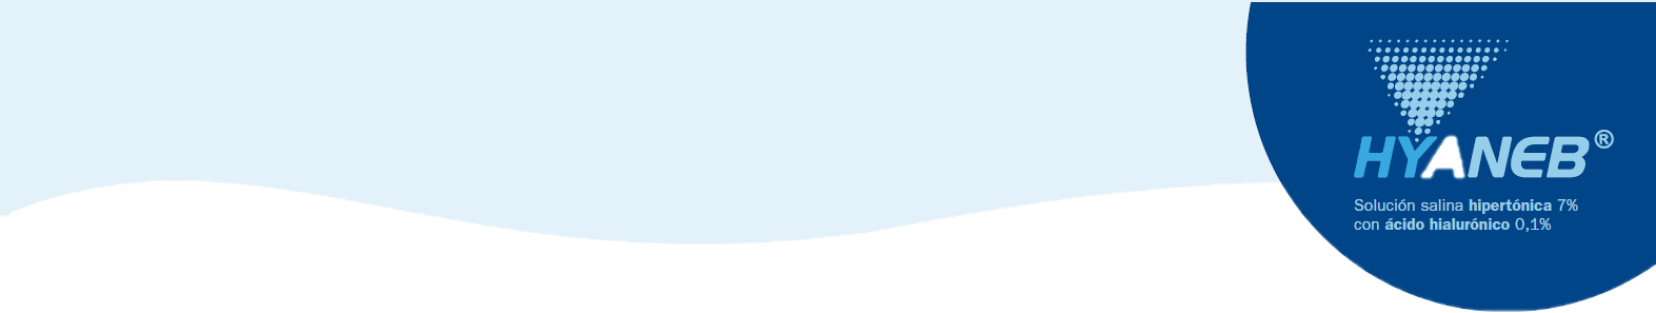
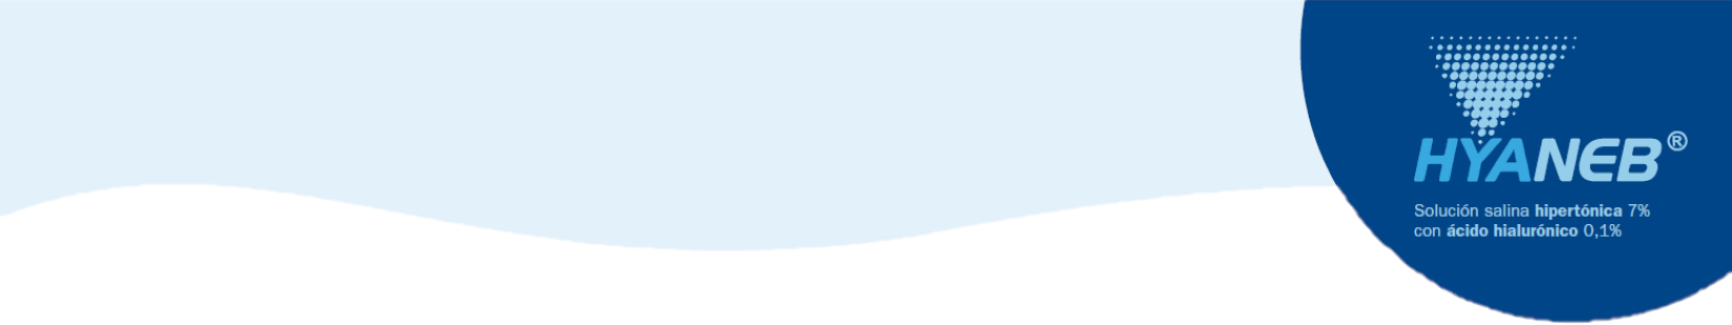
Atención de detalles por revisión de cliente

diff --git a/css/style.css b/css/style.css
@@ -19,6 +19,7 @@ body .container-fluid{
 
     overflow-y: scroll;
     overflow-x: hidden;
+    margin-bottom: 10%;
 }
 
 .body h3{
@@ -55,12 +56,11 @@ body section.container{
 
 .header{
 
-    height: 33.6vh;
+    height: 33vh;
     background-image: url("../assets/images/header.png");
     background-size: cover;
     background-repeat: no-repeat;
     background-position-x: right;
-    padding-top: 3em;
     padding-left: 3em;
     position: relative;
     z-index: 5;
@@ -144,7 +144,7 @@ section.container-fluid a:hover{
 
 .index .chiesi p{
 
-    color: #54ABE4;
+    color: #95CEEB;
     font-weight: 600;
     font-size: 1em;
 }
@@ -204,7 +204,7 @@ footer .enlaces div{
     padding: .5em;
     width: 22%;
     text-align: center;
-    box-shadow: inset 2px 1px 2px 1px rgba(0,0,0,.6);
+    box-shadow: inset 2px 2px 2px 2px rgba(0,0,0,.25);
     font-size: 1.3em;
     line-height: 1;
 }
@@ -233,12 +233,11 @@ footer div a:hover{
     display: flex;
     flex-direction: column;
     align-items: center;
-    margin-bottom: .5em;
 }
 
 .hy-eficacia .body img.central{
 
-    width: 56%!important;
+    width: 82%!important;
 }
 
 .hy-eficacia .body .images{
@@ -267,12 +266,17 @@ footer div a:hover{
 
 .hy-eficacia .body img:first-child{
 
-    width: 72%;
+    width: 87%;
 }
 
 .hy-eficacia .body .caja-hyaneb img{
 
-    width: 59%;
+    width: 85%;
+}
+
+.hy-eficacia  .caja-hyaneb{
+
+    padding-right: 0;
 }
 
 .hy-eficacia .body img{
@@ -284,7 +288,7 @@ footer div a:hover{
 
 .hy-eficacia-1 .body img{
 
-    width: 57%;
+    width: 80%;
 }
 
 .hy-eficacia-1 .body .images{
@@ -321,15 +325,16 @@ footer div a:hover{
 
 .hy-admon .body img{
 
-    width: 70%;
+    width: 90%;
 }
 
 .hy-admon .body h3{
 
     line-height: 1;
     text-align: center;
-    width: 30%;
+    width: 42%;
     font-weight: 700;
+    margin-bottom: 3%;
 }
 
 .hy-admon .body h3 span{
@@ -341,8 +346,9 @@ footer div a:hover{
 
     font-size: .5em;
     font-weight: 700;
-    width: 30%;
+    width: 40%;
     text-align: center;
+    margin-top: 2%;
 }
 
 .hy-admon-1 .body .images{
@@ -353,11 +359,11 @@ footer div a:hover{
 }
 
 .hy-admon-1 .body img {
-    width: 80%;
+    width: 85%;
 }
 
 .hy-admon-2 .body img {
-    width: 46%;
+    width: 75%;
 }
 
 .hy-admon-2 .body .images{
@@ -369,7 +375,7 @@ footer div a:hover{
 
 .hy-admon-3 .body img{
 
-    width: 60%;
+    width: 80%;
 }
 
 .hy-admon-3 .body .images .icono-anterior{
@@ -416,11 +422,12 @@ p.ha3{
 .hy-covid .body{
 
     text-align: center;
+    margin-bottom: 10%;
 }
 
 .hy-covid .body img{
 
-    width: 47%;
+    width: 85%;
     position: relative;
     z-index: 5;
 }
@@ -435,6 +442,9 @@ p.ha3{
     letter-spacing: .1px;
     line-height: 1;
     text-decoration: none;
+    text-align: left;
+    margin: 0 auto;
+    width: 80%
 }
 .hy-covid .body a.enlace img{
 

diff --git a/assets/scripts/app.js b/assets/scripts/app.js
@@ -99,10 +99,10 @@ const Eficacia = {
 
             <div class="body">
                 <div class="row">
-                    <div class="col-md-4 text-center caja-hyaneb">
+                    <div class="col-md-3 text-center caja-hyaneb">
                         <img src="assets/images/caja-hyaneb.png" alt="">
                     </div>
-                    <div class="col-md-6">
+                    <div class="col-md-7">
                         <img src="assets/images/body-eficacia-1.png" alt="">
                     </div>
                 </div>

diff --git a/hyaneb-eficacia.html b/hyaneb-eficacia.html
@@ -24,10 +24,10 @@
 
         <div class="body">
             <div class="row">
-                <div class="col-md-4 text-center caja-hyaneb">
+                <div class="col-md-3 text-center caja-hyaneb">
                     <img src="assets/images/caja-hyaneb.png" alt="">
                 </div>
-                <div class="col-md-6">
+                <div class="col-md-7">
                     <img src="assets/images/body-eficacia-1.png" alt="">
                 </div>
             </div>
